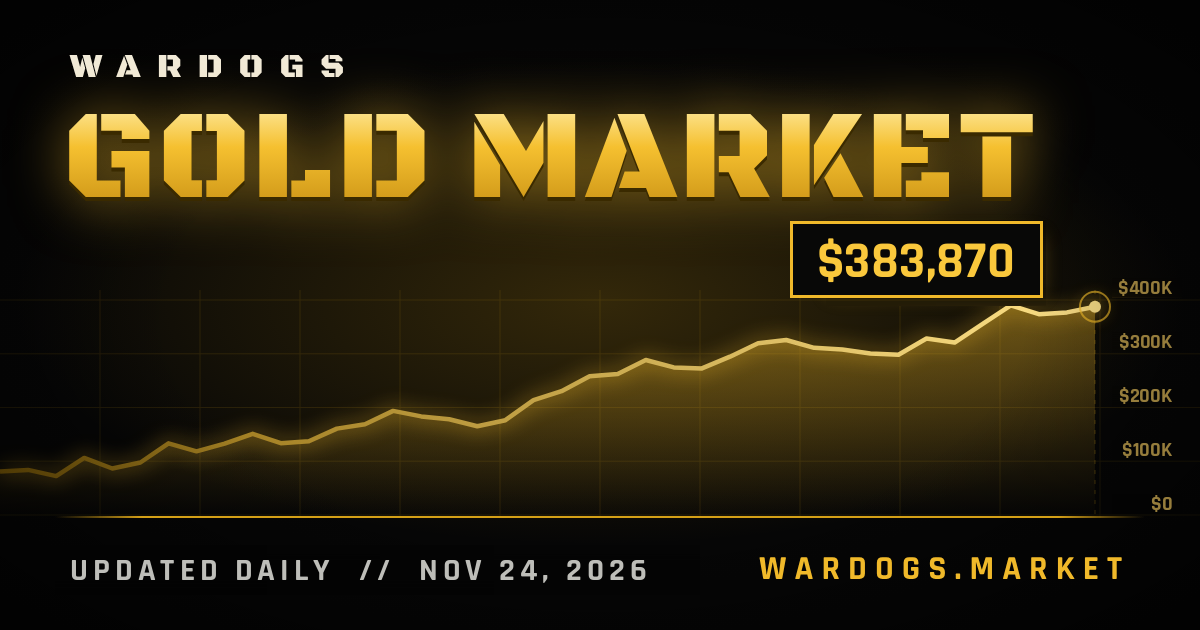
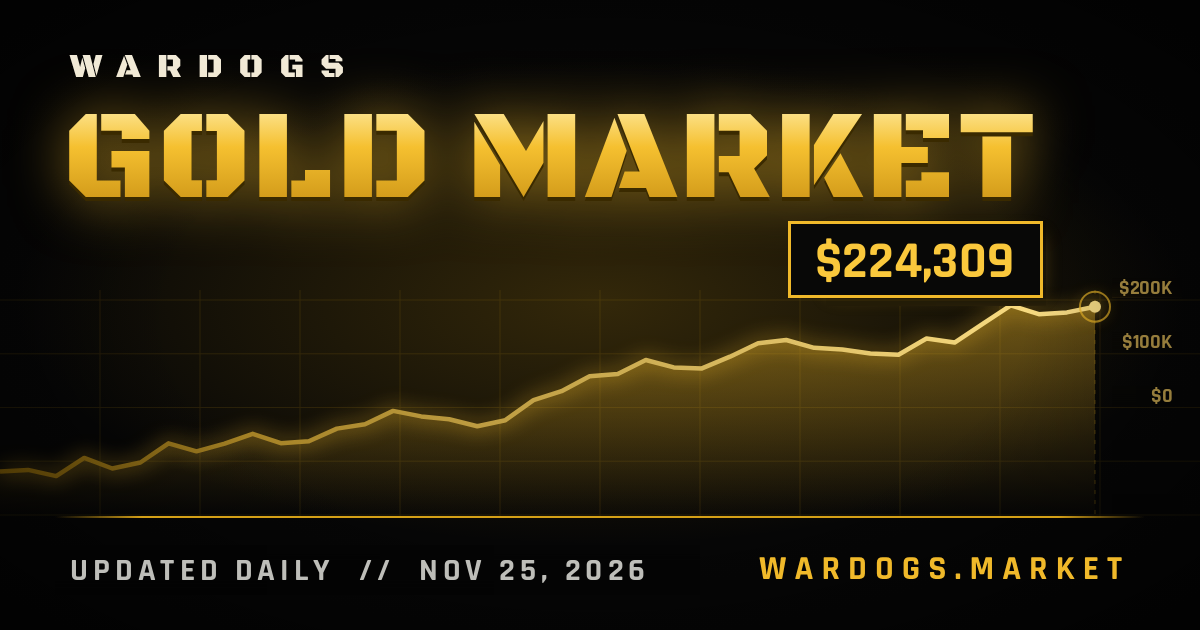
Gold update: $224,309 (2026-11-25)
Claude-Session: https://claude.ai/code/session_01Uhug1yvC9pnBVbRMUzTani

diff --git a/index.html b/index.html
@@ -13,12 +13,12 @@
 <meta property="og:title" content="WARDOGS // Gold Market">
 <meta property="og:description" content="Wardogs Gold Rate">
 <meta property="og:url" content="https://www.wardogs.market/">
-<meta property="og:image" content="https://www.wardogs.market/og-image.png?v=20261124">
+<meta property="og:image" content="https://www.wardogs.market/og-image.png?v=20261125">
 <meta property="og:image:width" content="1200">
 <meta property="og:image:height" content="630">
 <meta property="og:image:alt" content="WARDOGS Gold Market: stacked gold bars, with the gold bar rate updated every day at 00:00 UTC">
 <meta name="twitter:card" content="summary_large_image">
-<meta name="twitter:image" content="https://www.wardogs.market/og-image.png?v=20261124">
+<meta name="twitter:image" content="https://www.wardogs.market/og-image.png?v=20261125">
 <link rel="manifest" href="manifest.webmanifest">
 <link rel="apple-touch-icon" href="apple-touch-icon.png">
 <meta name="mobile-web-app-capable" content="yes">
@@ -515,7 +515,7 @@
       <path d="M60 60L90 90M340 60L310 90M60 340L90 310M340 340L310 310"/>
     </svg>
   <main>
-    <noscript><p style="padding:24px 0;color:#c8cbcd;font:600 18px/1.5 sans-serif">WARDOGS gold bar value: $383,870 (Nov 24, 2026). Yesterday: $472,160. Updated every day at 00:00 UTC. Turn on JavaScript to see the live page and history.</p></noscript>
+    <noscript><p style="padding:24px 0;color:#c8cbcd;font:600 18px/1.5 sans-serif">WARDOGS gold bar value: $224,309 (Nov 25, 2026). Yesterday: $383,870. Updated every day at 00:00 UTC. Turn on JavaScript to see the live page and history.</p></noscript>
     <div class="code" id="code-label">MARKET RATE // GOLD BAR</div>
 
     <section class="plate value-panel" id="page-gold">
